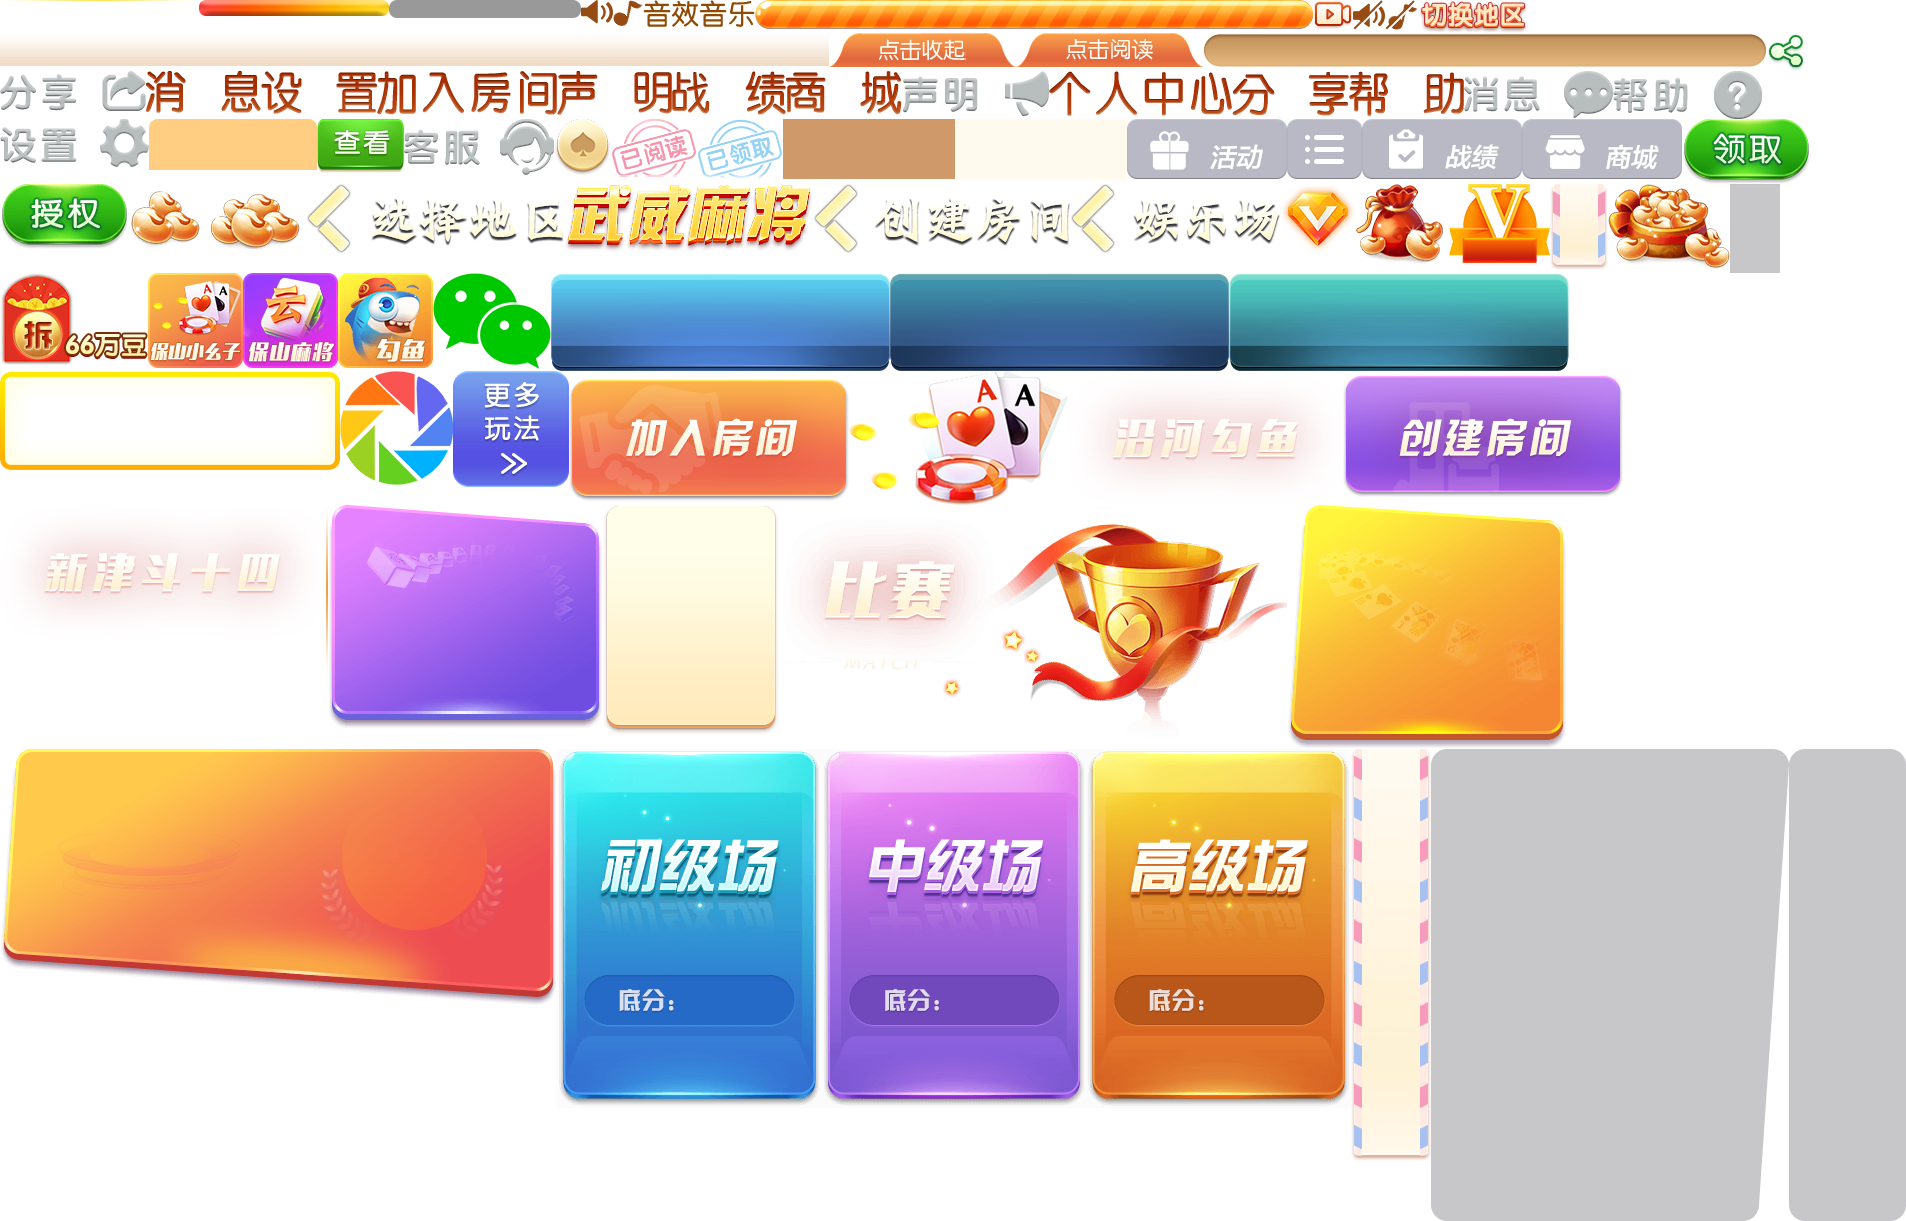
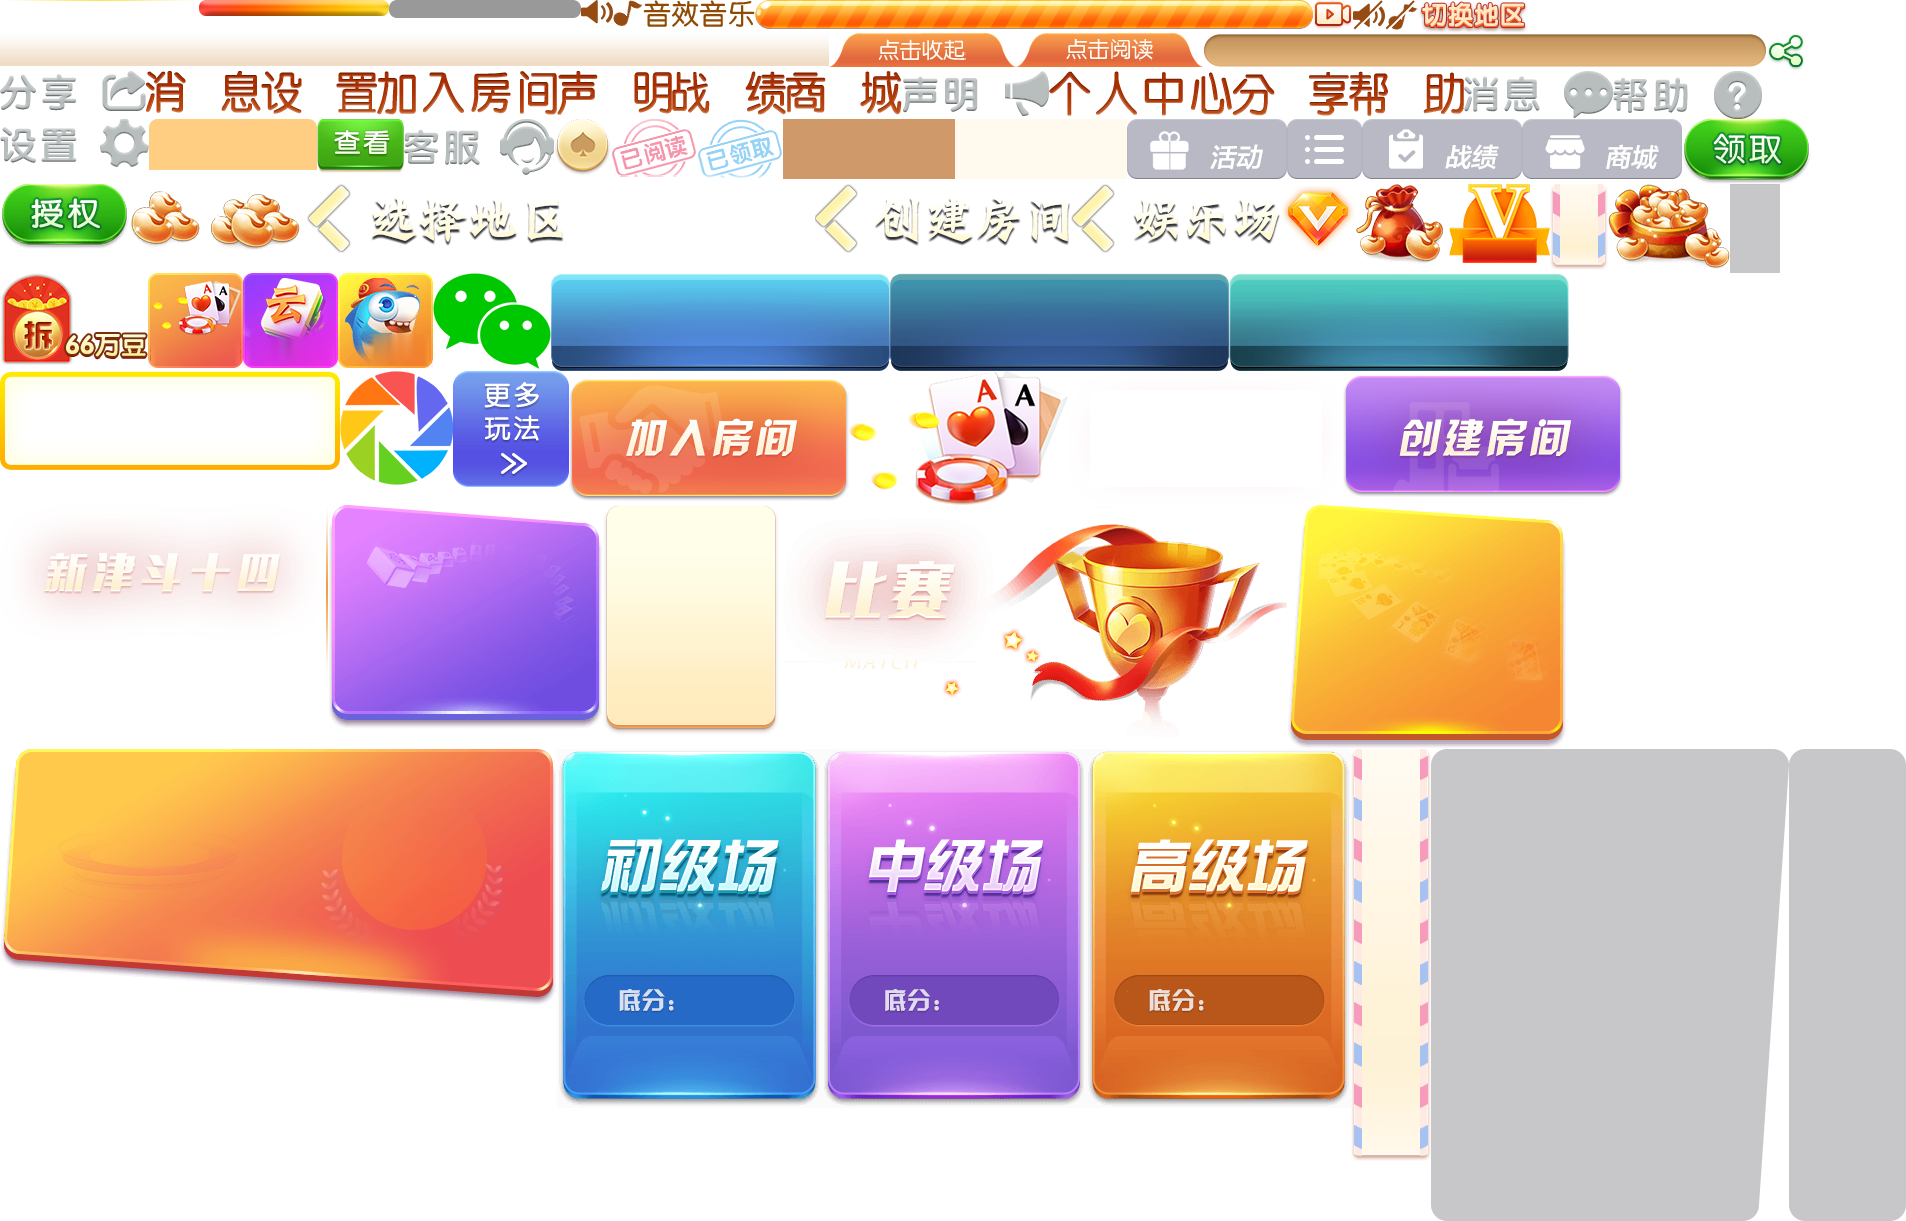
去原版版号和其他游戏名：登录页滚动字幕里的软著登字、新广出审【2017】9918号、ISBN、文网游备字改成空字（健康忠告、适龄提示留着）；大厅合图里「武威麻将」「沿河勾鱼」标题抠透明，扑克、麻将、鱼三个小图标底下的「保山小幺子」「保山麻将」「勾鱼」用底色渐变补上；独立窗口核对登录页字幕只剩两行提示，合图放大看过；pnpm build 过；HANDOFF、DECISIONS 同步

Changed region(s): [[0.2786, 0.1556, 0.4334, 0.2179], [0.5881, 0.3423, 0.681, 0.4046], [0.0619, 0.2801, 0.2167, 0.3112]]

diff --git a/HANDOFF.md b/HANDOFF.md
@@ -11,7 +11,11 @@
 - **测试**：`android-selftest` 350 过（加 4 条：`brandStrings`、清单名字、`applyBranding` 复制图标和改名、剩「懒人」会停），`client-adapter-test` 18 过，`pnpm build` 过。拿上次打包留下的解包目录副本试了 `applyBranding`：7 张图标都换了，`app_name` 变成「四川红二十」。
 - **核对**：服务直接读 `client/public`，不用重启。另开 5 号测试号窗口：登录页 logo 是「四川红二十」，大厅入口、大厅、更多、声明、设置里没有原包名字和联系方式；服务端发出去的图和磁盘上一致。测试台 4 个窗口在打第 3 局，没刷新，它们刷新后才会换成新图。还用 Mac 自带文字识别把 826 张图切块放大扫了一遍：除上面这些，只剩「查看客服」「联系客服」「分享至微信」「微信登录」这类按钮字（没有号码），以及原版其他游戏合图；花体字扫不出（花牌那种只能靠眼看）。
 - **注意**：`client-prepare.mjs` 重跑只会重新换复制战绩那句，图是直接改在 `client/public` 里的（原始素材目录已经不在了）。
-- **没做**：没打新安装包（签名要用户输密码；新名字和图标要打第 7 版才有，`--version-code 7`）、没发布 108、没推仓库。没动的：登录页滚动字幕里原版的版号（新广出审【2017】9918号、ISBN 978-7-498-03321-5、文网游备字【2018】M-CBG…），原版其他游戏的图（保山小幺子、保山麻将、武威麻将、沿河勾鱼合图），人物立绘，网页标题「斗十四」。
+- **追加**（用户「这些字去了」）：
+  7. 登录页滚动字幕（main import 0453f6919 的 `copyright` 字）原版的「软著登字第2086291号；新广出审【2017】9918号；ISBN 978-7-498-03321-5；文网游备字【2018】M-CBG 0509号」改成空字；「抵制不良游戏…」健康忠告和适龄提示留着。
+  8. 大厅合图（resources 178ed1a4，1906×1221）：「武威麻将」「沿河勾鱼」两个标题字抠成全透明；三个小图标（扑克、麻将、鱼）底下的「保山小幺子」「保山麻将」「勾鱼」字，按列用字上下的底色渐变补上，鱼那格从鱼身渐变到橙底。
+  - 核对：开一个不带登录的独立窗口看登录页，字幕只剩健康提示和防沉迷两行，场景里没有版号字；看完窗口已关。合图放大看过，四个名字都没了。
+- **没做**：没打新安装包（签名要用户输密码；新名字和图标要打第 7 版才有，`--version-code 7`）、没发布 108、没推仓库。没动的：人物立绘，网页标题「斗十四」。
 
 # 当前任务（2026-11-03 新津 v2 三条规则：用户报叫被截胡、胡牌看颜色、偷牌顺序 →「三条都改」）
 

diff --git a/DECISIONS.md b/DECISIONS.md
@@ -375,7 +375,8 @@
 
 - **决策**：原包的名字「懒人娱乐」「大懒人娱乐」「懒人耍十四」统一换成「四川红二十」：登录页两个 logo、大厅名字条重画（HarmonyOS Sans SC Bold，免费商用），复制战绩开头、安装包桌面名字（`app_name` 和清单 `android:label`）跟着改；花牌牌面上的「懒人娱乐」抹掉、补齐框线；「保存到桌面步骤」图里的「懒人耍十四」和原网址换成「四川红二十」、图标换成新图标。原包联系方式全部删掉：官方 QQ 客服、客服微信、紧急公告二维码。安装包图标保留原图，只抹掉左上角「懒人」角标，打包时由 `tools/android-res` 覆盖，`strings.xml` 还剩「懒人」就停下。图直接改在 `client/public/assets`（网页、安装包共用），`client-prepare.mjs` 只补了复制战绩那句的替换。
 - **来源**：用户 2026-11-03「这个游戏里边很多侵权的东西去去 比如懒人娱乐改改想过名字」，弹窗答「四川红二十」「全部删掉」「只把「懒人」角标抹掉」。
-- **没动**：登录页滚动字幕里原版的版号、原版其他游戏的合图、人物立绘、网页标题「斗十四」（游戏本身的名字），等用户定。
+- **追加**：用户同日「这些字去了」：登录页滚动字幕里原版的版号（软著登字、新广出审、ISBN、文网游备字）删掉，大厅合图里原版其他游戏的名字「保山小幺子」「保山麻将」「武威麻将」「沿河勾鱼」抹掉（标题抠透明，图标底下的字用底色补）。
+- **没动**：人物立绘、网页标题「斗十四」（游戏本身的名字），等用户定。
 
 ## 待决定
 
